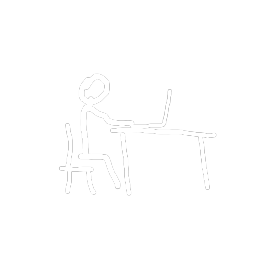
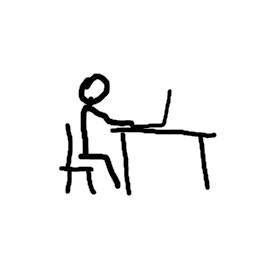
add light color version of picture asset as default

Changed region(s): [[0.2188, 0.2812, 0.8438, 0.7812]]

diff --git a/app/page.tsx b/app/page.tsx
@@ -14,7 +14,11 @@ export default function Page() {
         `}
       </p>
       <div className="my-8"></div>
-      <Image src={"/literallyMe.png"} alt="literrallyMe.png" width={256} height={256}/>
+      <picture>
+        <source srcSet="/literallyMe-dark.png" media="(prefers-color-scheme: dark)"/>
+        <source srcSet="/literallyMe.png"/>
+        <img src="/literallyMe.png" alt="literallyMe.png" width={256} height={256}/>
+      </picture>
       <p>literally, this guy is like me.</p>
       <p>sitting there, building some random stuff at 3am.</p>
     </section>
